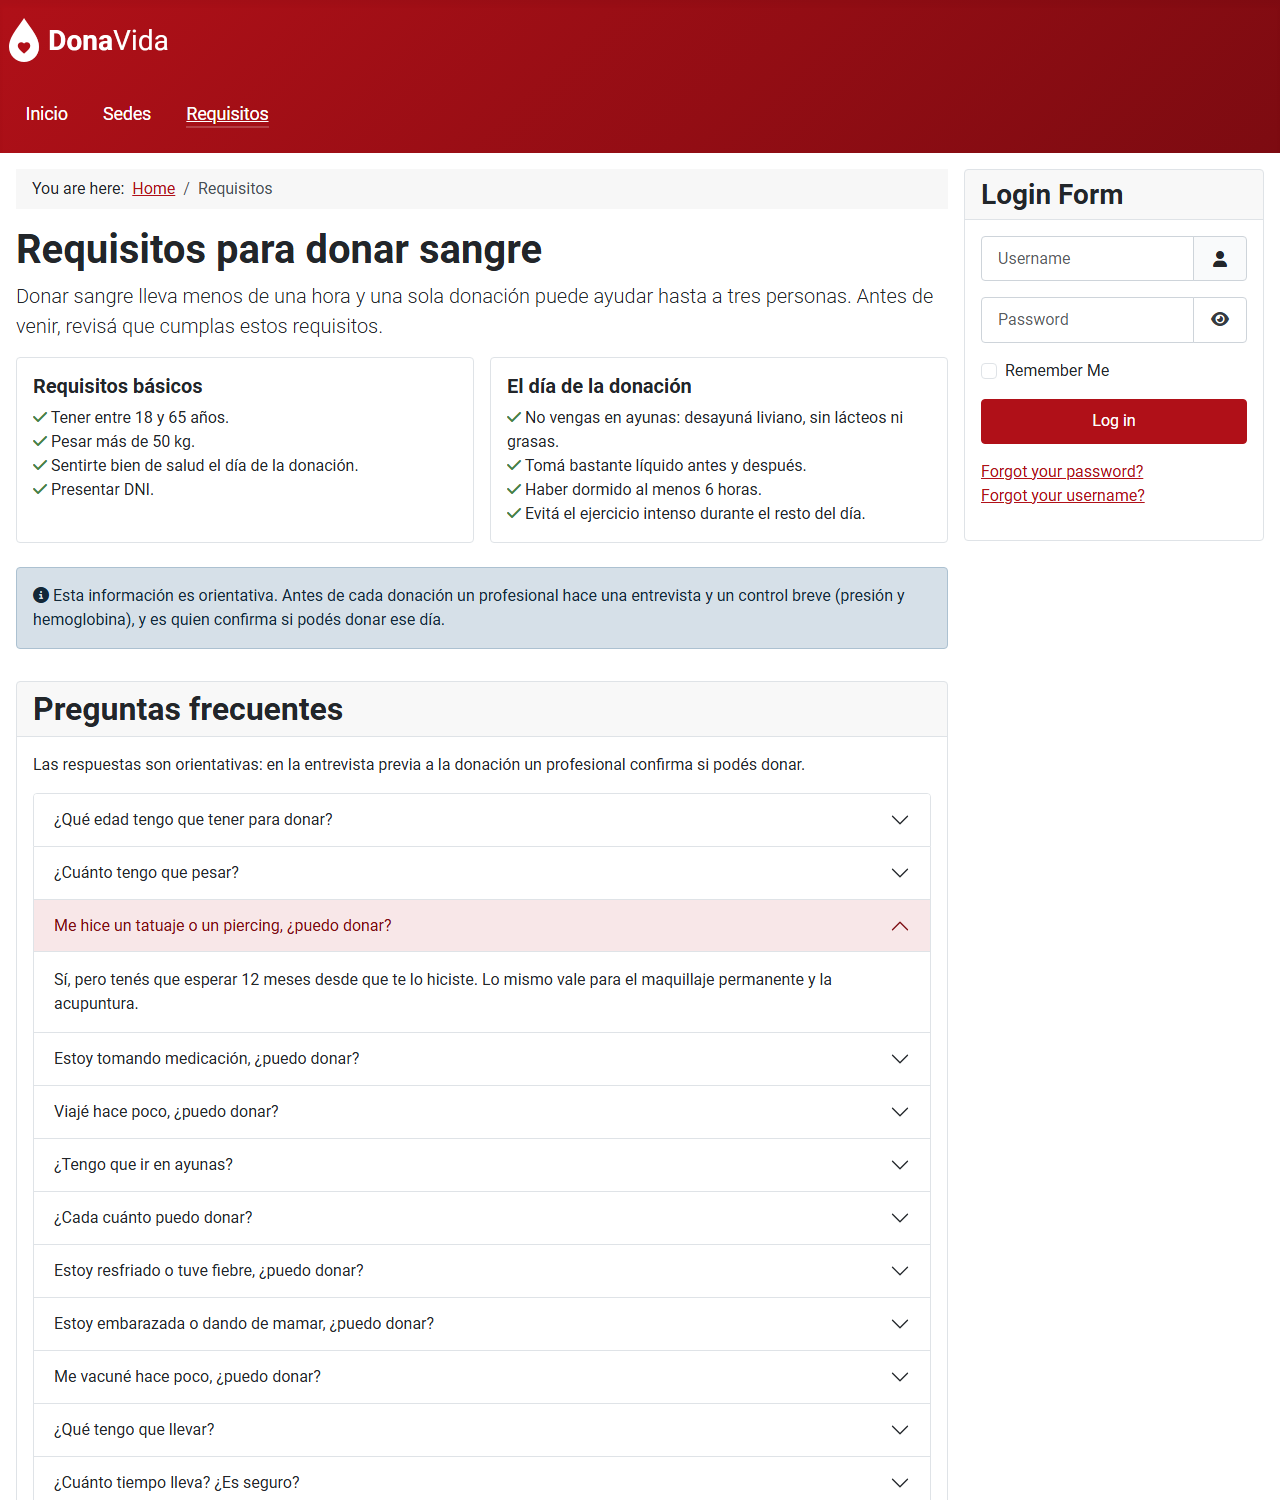
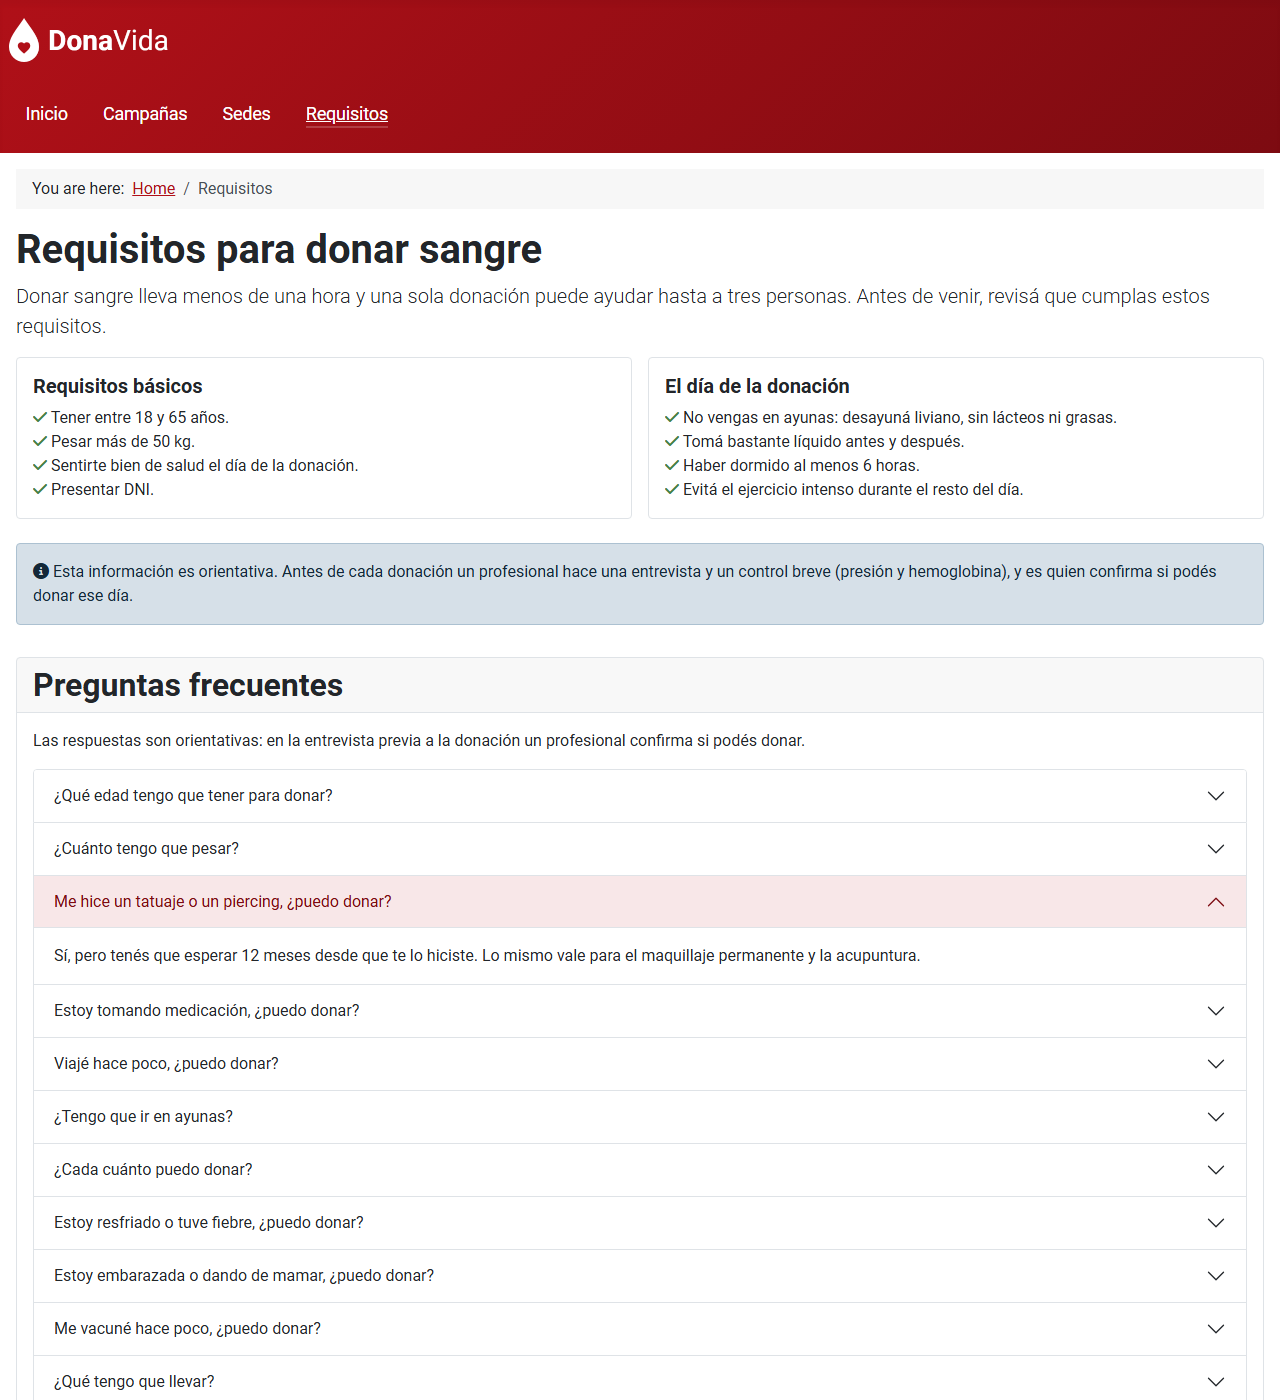
feat: sitio público sin login ni registro de usuarios
DonaVida es informativo: el donante no necesita cuenta. usuarios.php
despublica el Login Form que crea el instalador y deja desactivado el
registro. El panel sigue en /administrator. Capturas actualizadas.

Changed region(s): [[0.0, 0.0307, 1.0, 1.0], [0.0625, 0.0, 0.125, 0.0307]]

diff --git a/docs/scripts/usuarios.php b/docs/scripts/usuarios.php
@@ -1,0 +1,61 @@
+<?php
+
+/**
+ * Quita el acceso de usuarios del sitio público en la base de datos local.
+ *
+ * DonaVida es un sitio informativo: el donante no necesita cuenta. Este script
+ * despublica el módulo "Login Form" que Joomla crea al instalar y deja
+ * desactivado el registro de usuarios. El panel sigue en /administrator.
+ * El detalle está en docs/usuarios.md.
+ *
+ * Uso, desde la carpeta del proyecto y con MySQL de XAMPP encendido:
+ *   C:\xampp\php\php.exe docs\scripts\usuarios.php
+ */
+
+use Joomla\CMS\Table\Module;
+
+require __DIR__ . '/comun.php';
+
+try {
+    echo 'Usuarios del sitio en la base "' . $db->setQuery('SELECT DATABASE()')->loadResult() . '"' . PHP_EOL;
+
+    // 1. Módulos de login del sitio (el instalador crea "Login Form" en sidebar-right)
+    $logins = $db->setQuery(
+        $db->createQuery()
+            ->select($db->quoteName(['id', 'title', 'published']))
+            ->from($db->quoteName('#__modules'))
+            ->where($db->quoteName('module') . ' = ' . $db->quote('mod_login'))
+            ->where($db->quoteName('client_id') . ' = 0')
+    )->loadObjectList();
+
+    foreach ($logins as $login) {
+        if ((int) $login->published !== 1) {
+            informar('sin cambios', 'módulo "' . $login->title . '" (ya despublicado)');
+            continue;
+        }
+
+        guardar(new Module($db), (int) $login->id, ['published' => 0], 'módulo "' . $login->title . '" despublicado');
+    }
+
+    // 2. Registro de usuarios desactivado (Users → Options → Allow User Registration: No)
+    $componenteId = idComponente($db, 'com_users');
+    $params       = $db->setQuery(
+        $db->createQuery()
+            ->select($db->quoteName('params'))
+            ->from($db->quoteName('#__extensions'))
+            ->where($db->quoteName('extension_id') . ' = ' . $componenteId)
+    )->loadResult();
+
+    $db->setQuery(
+        $db->createQuery()
+            ->update($db->quoteName('#__extensions'))
+            ->set($db->quoteName('params') . ' = ' . $db->quote(combinarParams($params, ['allowUserRegistration' => '0'])))
+            ->where($db->quoteName('extension_id') . ' = ' . $componenteId)
+    )->execute();
+    informar('actualizado', 'registro de usuarios desactivado');
+
+    echo 'Listo: el sitio no muestra login; el panel está en /administrator.' . PHP_EOL;
+} catch (Throwable $e) {
+    fwrite(STDERR, 'Error: ' . $e->getMessage() . PHP_EOL);
+    exit(1);
+}

diff --git a/docs/usuarios.md b/docs/usuarios.md
@@ -1,0 +1,30 @@
+# Usuarios y acceso al sitio
+
+DonaVida es un sitio informativo: campañas, sedes y requisitos se ven sin cuenta. Por eso el sitio público no muestra formulario de login ni permite registrarse. Los integrantes del grupo administran el sitio desde el panel.
+
+## Panel de administración
+
+```
+http://localhost/frameworkDonaVida/administrator
+```
+
+Cada integrante entra con el Super User que creó al instalar Joomla. Los usuarios se guardan en la base de cada uno y no se comparten por git: los scripts de `docs/scripts/` no los necesitan, porque toman como autor al primer Super User de cada base.
+
+## Recrearlo automáticamente
+
+[`scripts/usuarios.php`](scripts/usuarios.php) hace los dos pasos en la base local. `todo.php` lo ejecuta junto con los demás.
+
+```
+C:\xampp\php\php.exe docs\scripts\usuarios.php
+```
+
+## Pasos en el panel
+
+1. **Login Form.** Content → Site Modules → Login Form → Status: `Unpublished`. Se despublica y no se borra, así se puede volver a activar.
+2. **Registro.** Users → Options → User Options → Allow User Registration: `No`. En Joomla 5 ya viene así; el script lo deja asegurado.
+
+## Decisiones
+
+- **Sin login en el sitio público**: nadie necesita cuenta para informarse sobre cómo donar, y un formulario de login en todas las páginas confunde al donante y ofrece una puerta de entrada que no se usa.
+- **Contenido a ancho completo**: el Login Form era lo único en la columna derecha de Campañas, Sedes y Requisitos. Sin él, Cassiopeia deja el contenido a ancho completo. En Inicio la columna sigue, con "Nuestras sedes".
+- **Usuarios fuera de git**: poner usuarios en los scripts obligaría a dejar contraseñas en el repositorio.

diff --git a/docs/modificaciones.md b/docs/modificaciones.md
@@ -17,3 +17,4 @@ Cambios aplicados sobre Joomla 5.4.9 y la plantilla Cassiopeia, comparados con l
 | 11 | Imágenes de las campañas | No existían | Una placa de 1200×675 por campaña con la paleta de DonaVida, generada con `docs/scripts/imagenes-campanas.ps1` | Identidad visual uniforme y sin fotos de terceros. Cada una tiene texto alternativo con sus datos |
 | 12 | Módulo "Próximas campañas" | El módulo Articles - Category lista solo títulos | Módulo en `main-top`, solo en Inicio, con el nuevo diseño `proximas` (`html/mod_articles_category/proximas.php`): tarjetas con imagen, fecha, sede y grupos como etiquetas; solo campañas futuras, hasta 3; botón "Ver todas las campañas" | La portada muestra lo más urgente para el donante: cuándo y dónde donar, y qué grupos se necesitan |
 | 13 | Títulos del blog en columnas | Tamaño de `h2` a ancho completo (tres líneas por tarjeta) | `1.35rem` en blogs con `columns-*` (`user.css`) | Los títulos quedan en dos líneas como máximo y las tarjetas se leen parejas |
+| 14 | Módulo "Login Form" | Publicado en la columna derecha de todas las páginas | Despublicado, y registro de usuarios desactivado. El panel sigue en `/administrator` | El donante no necesita cuenta. Campañas, Sedes y Requisitos pasan a ancho completo. Ver `docs/usuarios.md` |

diff --git a/docs/scripts/README.md b/docs/scripts/README.md
@@ -21,6 +21,7 @@ Ejecuta todos los scripts. Se puede correr las veces que haga falta: lo que ya e
 | `imagenes-campanas.ps1` | TP2-6 | No toca la base: genera las imágenes de `images/campanas/` (ya están en git; `todo.php` no lo ejecuta) |
 | `requisitos.php` | TP2-8 | Categoría y artículo "Requisitos para donar sangre", ítem de menú "Requisitos" y módulo "Preguntas frecuentes" |
 | `sedes.php` | TP2-7 | Categoría y campo "Horarios", las 5 sedes, ítem de menú "Sedes" y módulo "Nuestras sedes" |
+| `usuarios.php` | – | Login Form despublicado y registro de usuarios desactivado (ver `docs/usuarios.md`) |
 | `comun.php` | – | Arranque de Joomla y funciones compartidas (no se ejecuta solo) |
 | `todo.php` | – | Ejecuta todos los anteriores; `plantilla.php` va al final porque ordena el menú |
 
